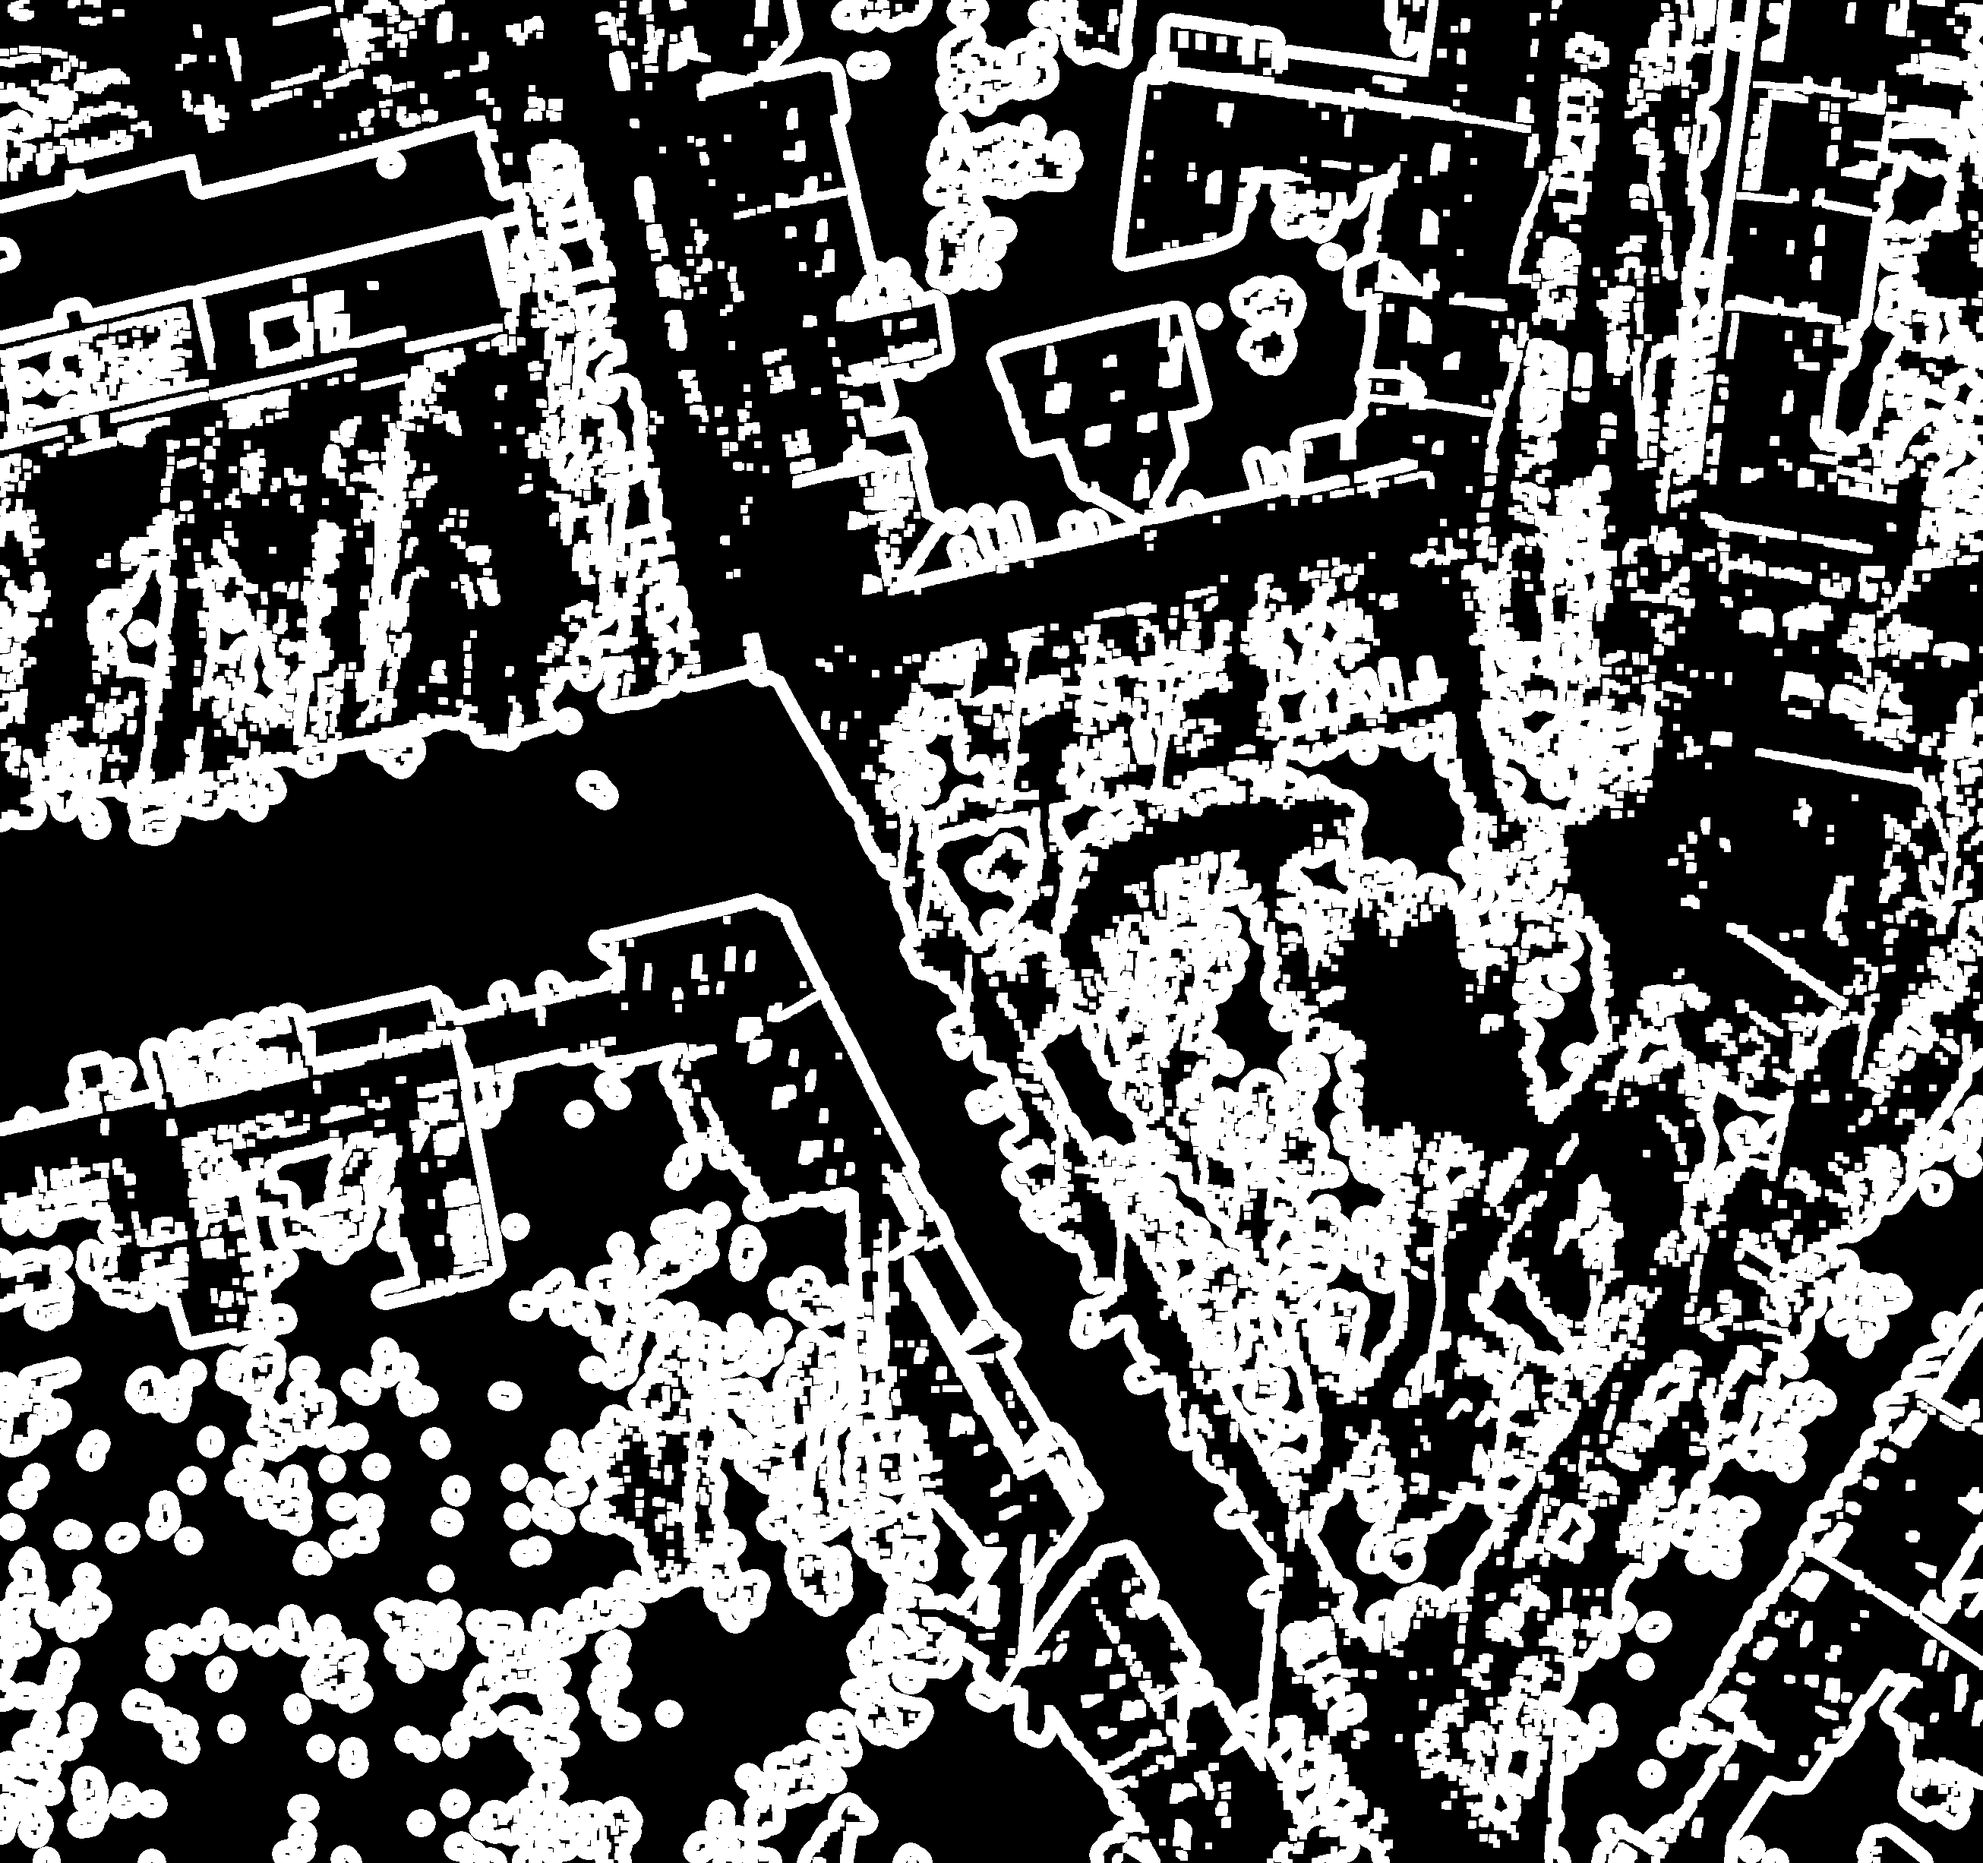
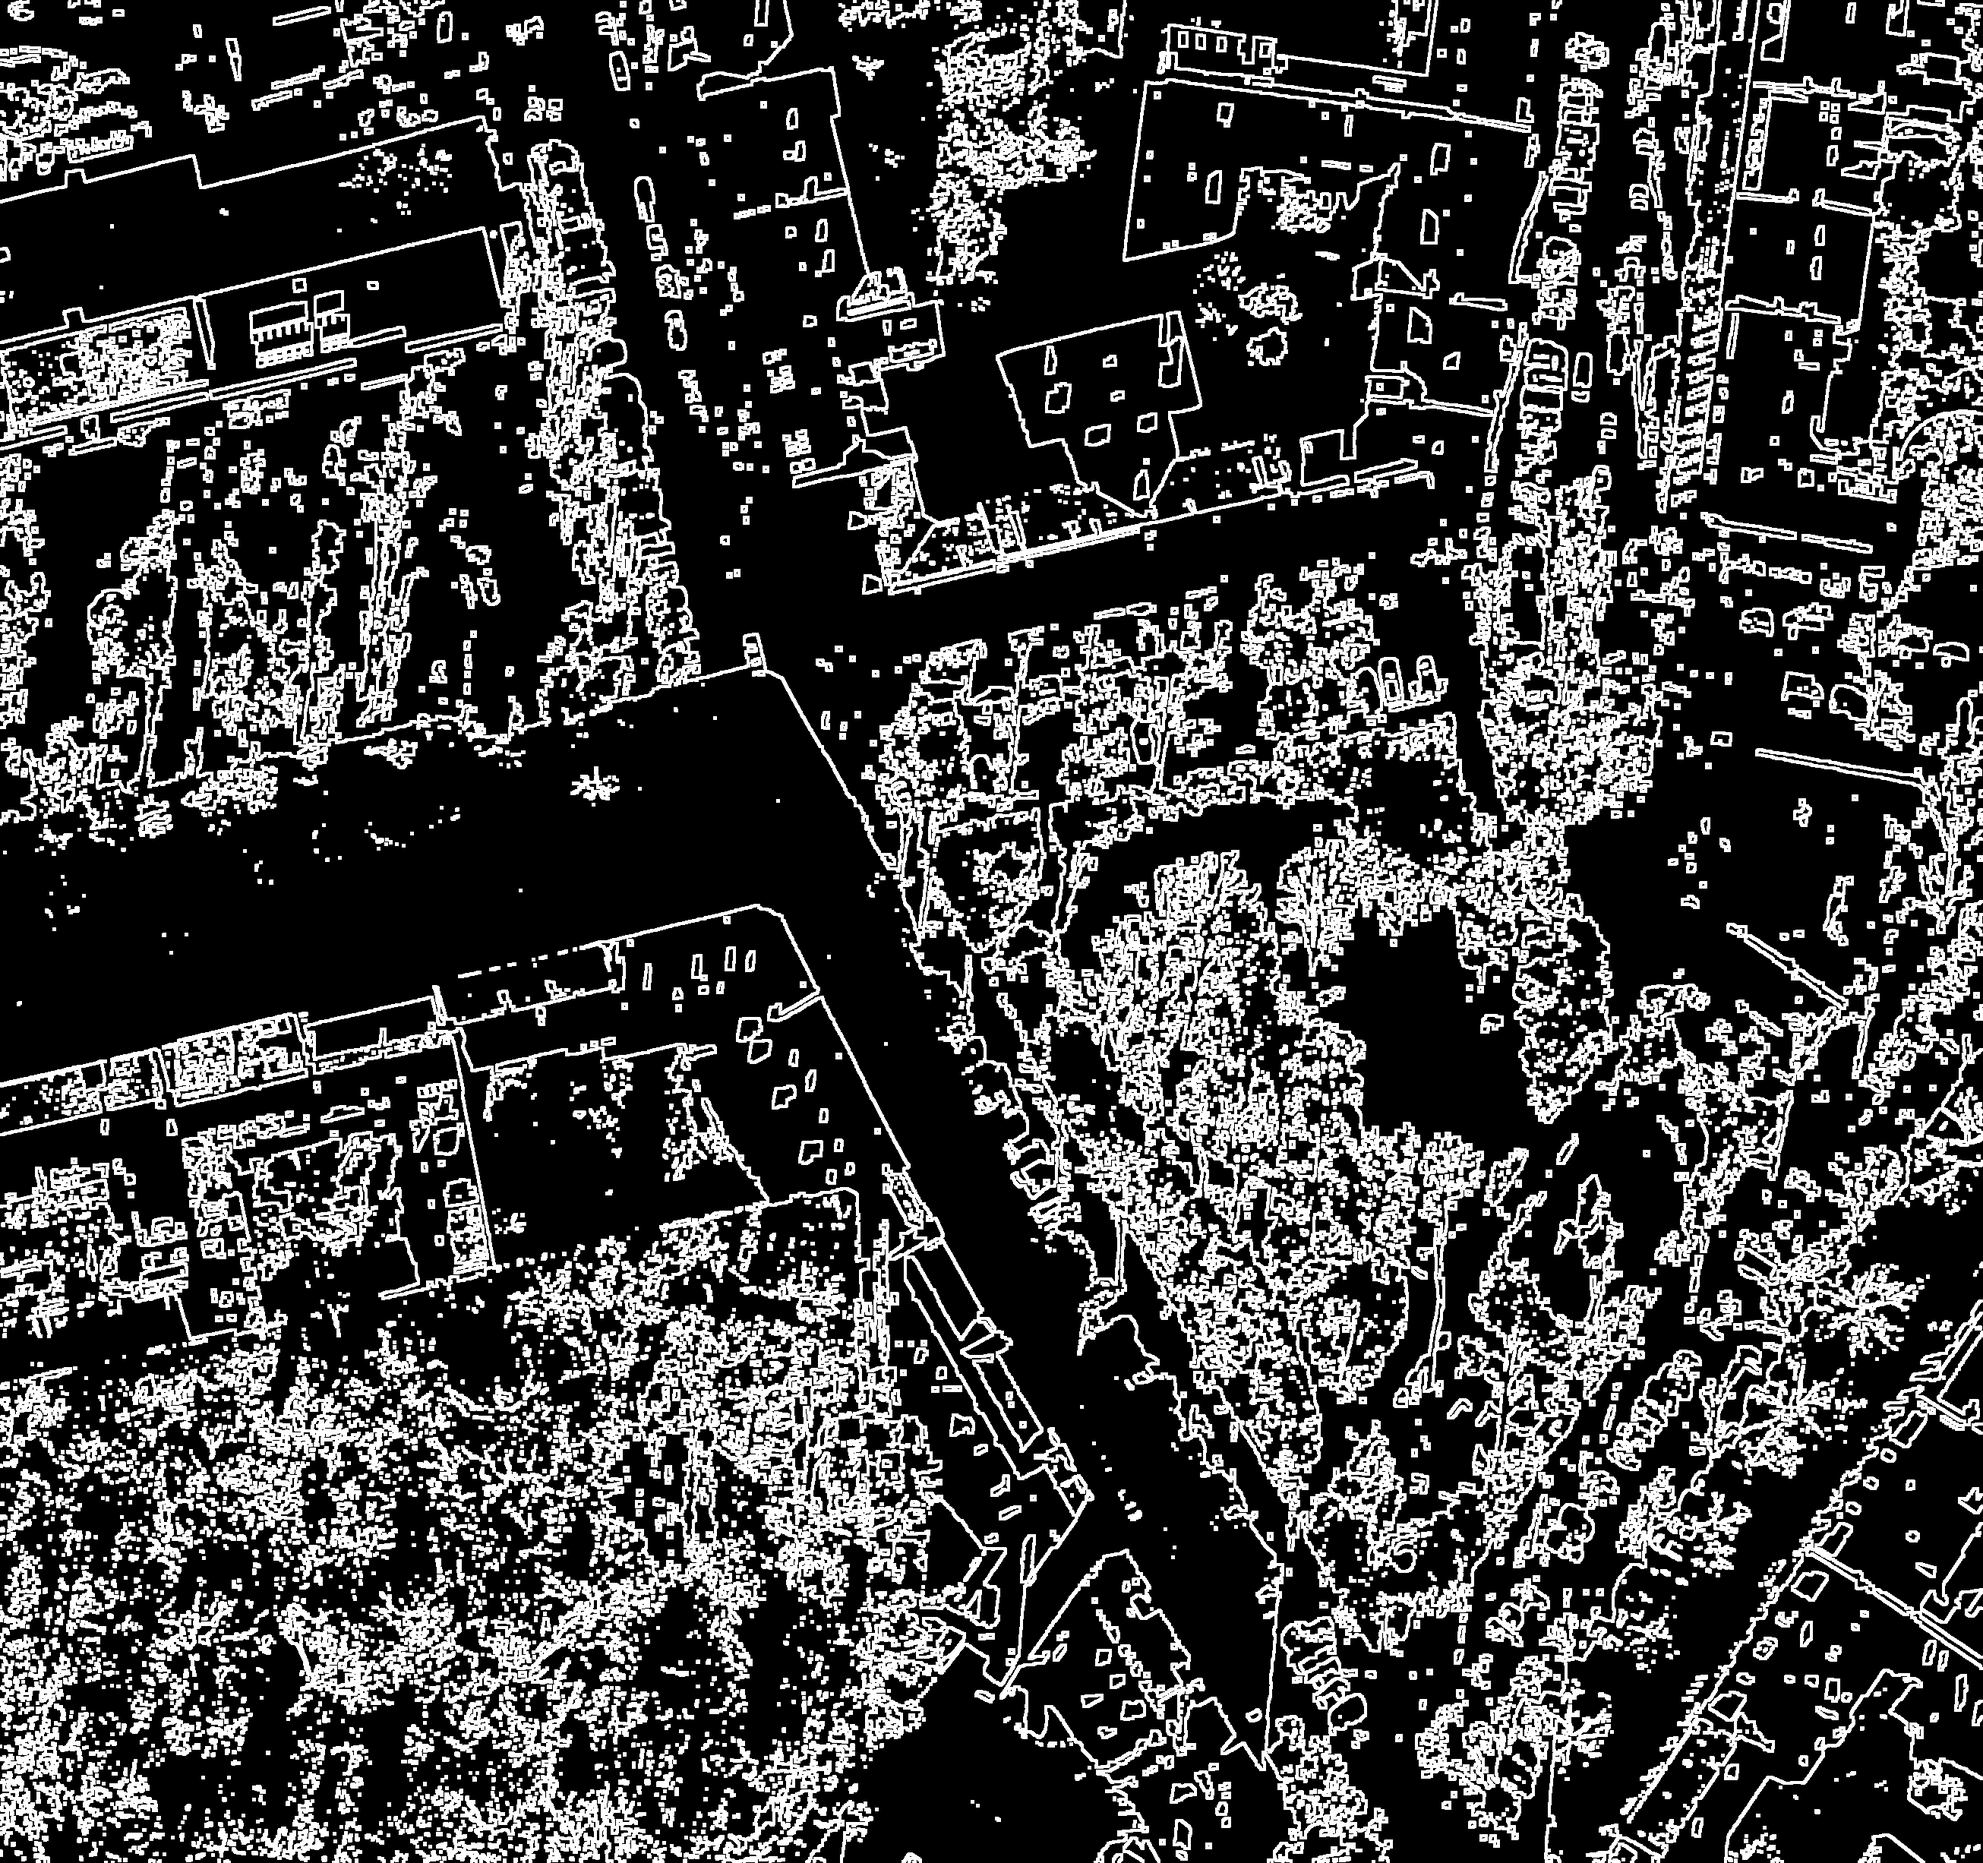
Modified: foreground determination method

diff --git a/watershed.py b/watershed.py
@@ -22,9 +22,8 @@ class watershedSegmentation:
             # Background area determination
             background = cv2.dilate(opening, self.kernel)
 
-            # Foreground area determination - with euclidean distance (DIST_L2)
-            dist_transform = cv2.distanceTransform(opening, cv2.DIST_L2, cv2.DIST_MASK_PRECISE)
-            ret, foreground = cv2.threshold(dist_transform,0.1*dist_transform.max(),255,0)
+            # Foreground area determination - with erosion, to segment only foreground area
+            foreground = cv2.morphologyEx(thresh,cv2.MORPH_ERODE, self.kernel)
 
             # Finding unknown region
             foreground = np.uint8(foreground)
